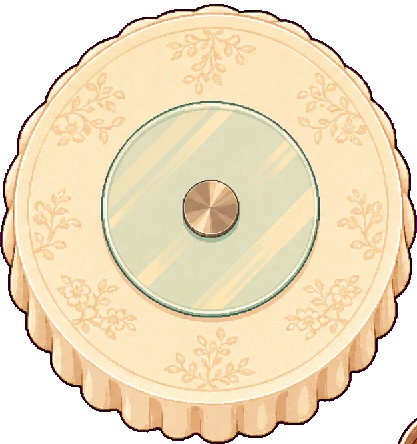
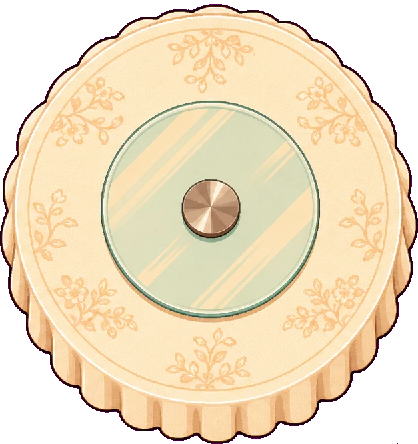
Mesa Giratória com a folha nova: pato inteiro, macarrão de arroz, frango xadrez e arroz branco
Claude-Session: https://claude.ai/code/session_01PDyLU6Huw5amytFREh1vA2

diff --git a/src/ui/styles.css b/src/ui/styles.css
@@ -2617,7 +2617,7 @@ html.hud-kit .tb-encanto.full { filter: drop-shadow(0 0 6px rgba(255, 106, 154, 
 .ce-title { background: linear-gradient(90deg, #d8343f, #e8a23a) !important; }
 .ce-stage { height: min(48vh, calc(var(--u) * 190)) !important; background: radial-gradient(circle at 50% 45%, #f6e7cc, #d9bf98); }
 .ce-table { position: absolute; top: 50%; left: 50%; height: 94%; aspect-ratio: 1; transform: translate(-50%, -50%); }
-.ce-top { position: absolute; inset: 0; width: 100%; height: 100%; image-rendering: pixelated; }
+.ce-top { position: absolute; inset: 0; width: 100%; height: 100%; object-fit: contain; image-rendering: pixelated; }
 .ce-disc { position: absolute; left: 50%; top: 50%; width: 0; height: 0; }
 .ce-dish { position: absolute; left: 0; top: 0; image-rendering: pixelated; filter: drop-shadow(0 2px 0 rgba(60, 40, 20, .35)); }
 .ce-table { container-type: size; }

diff --git a/src/ui/screens/CeiaGame.ts b/src/ui/screens/CeiaGame.ts
@@ -17,7 +17,7 @@ const DISHES: Dish[] = [
   { id: 'pato', name: 'pato' },
   { id: 'gergelim', name: 'bolinho de gergelim' },
   { id: 'macarrao', name: 'macarrão de arroz' },
-  { id: 'baozi', name: 'pãozinho no vapor' },
+  { id: 'arrozbranco', name: 'arroz branco' },
   { id: 'frango', name: 'frango xadrez' },
   { id: 'rolinho', name: 'rolinho primavera' },
   { id: 'bolinho', name: 'guioza' },

diff --git a/docs/ASSET_MANIFEST.md b/docs/ASSET_MANIFEST.md
@@ -118,7 +118,7 @@ Só a roupa casual da Bella tem os óculos rosados.
 | MEM-012 | `cinematics/memory-pt-03.png` | Almoço de aniversário | **integrado** |
 | MAP-040 | `maps/ar-cobertura-bg.png` (fonte: `art-source/maps/ar-cobertura.webp`) | Araruama: cobertura dos tios (vazia) + objetos `objects/cb-*` | **integrado** |
 | MAP-041 | `maps/ar-varanda-bg.png` (fonte: `art-source/maps/ar-varanda.webp`) | Araruama: varanda da cobertura à noite + objetos `objects/vr-*` | **integrado** |
-| MG-ceia | `minigames/mg-*.png` | Mesa Giratória: mesa vista de cima, pratos, hashi, balão (folha antiga, provisória até chegar a nova) | integrado (trocar) |
+| MG-ceia | `minigames/mg-*.png` | Mesa Giratória: mesa vista de cima, pato inteiro e fatiado, macarrão de arroz, frango xadrez, guioza, rolinho, arroz, gergelim, hashi, balão | **integrado** |
 | MG-fogos | `minigames/fg-*.png` | Foto dos fogos: foguete, 5 estouros, coração, casal na varanda | **integrado** |
 | UI-001 | `ui/title-art.png` | Capa: casal olhando a lua | **integrado** |
 | UI-003 | `ui/logo.png` | Logo "A Lua está Bella" | **integrado** |
